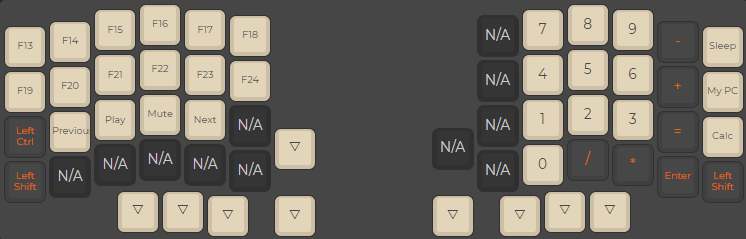
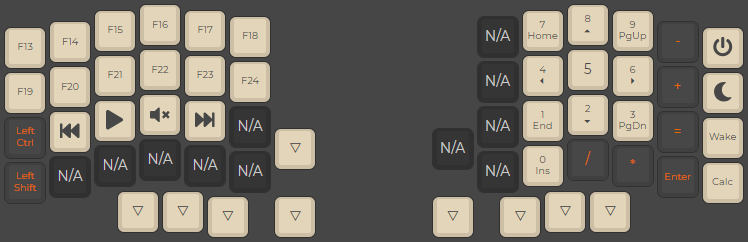
Update keymap v1.3

diff --git a/keymaps/olillin/changelog.md b/keymaps/olillin/changelog.md
@@ -14,3 +14,7 @@
 - Added shift to Symbols layer
 - Added "compose" key in order to type Swedish characters (å, ä and ö)
 - Added modifier keys to Numpad layer
+
+## v1.3
+
+- Added power buttons and calculator button
